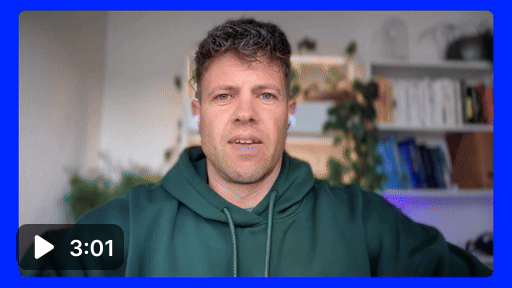
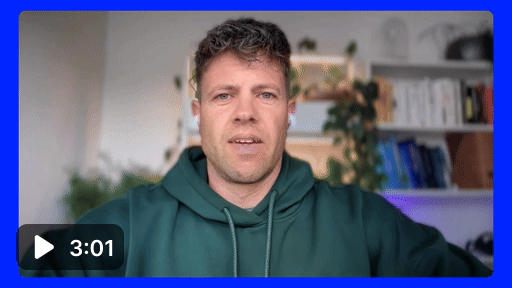
docs(syntherklaas): switch intro video to English-subtitled version
Replace Veed video link in both the thumbnail anchor and the "Watch on
Veed" fallback link with the EN-subtitled cut. Regenerate the static
thumbnail (frame 0 of the new GIF) so it points at the correct video
and the duration overlay stays in sync.

diff --git a/README.md b/README.md
@@ -20,12 +20,12 @@ Built on [Faker](https://github.com/joke2k/faker) (locale-aware) plus NL-locked 
 ## Watch the 2-minute intro
 
 <p align="center">
-  <a href="https://www.veed.io/view/320d6102-79cd-41a5-bc89-a5df8c4dcd95/089cd154-4be1-4141-8433-f86e369f2c20">
+  <a href="https://www.veed.io/view/f6d1d1f5-75e0-480e-b185-d39974822b73">
     <img src="assets/intro-thumbnail.png" alt="Watch the 2-minute intro: a quick tour through a full syntherklaas session" width="744">
   </a>
 </p>
 
-**[▶ Watch on Veed](https://www.veed.io/view/320d6102-79cd-41a5-bc89-a5df8c4dcd95/089cd154-4be1-4141-8433-f86e369f2c20)** — a quick tour: define two related tables, see the data model, pick volume distributions, and pick an output format.
+**[▶ Watch on Veed](https://www.veed.io/view/f6d1d1f5-75e0-480e-b185-d39974822b73)** — a quick tour: define two related tables, see the data model, pick volume distributions, and pick an output format.
 
 ## Installation
 
